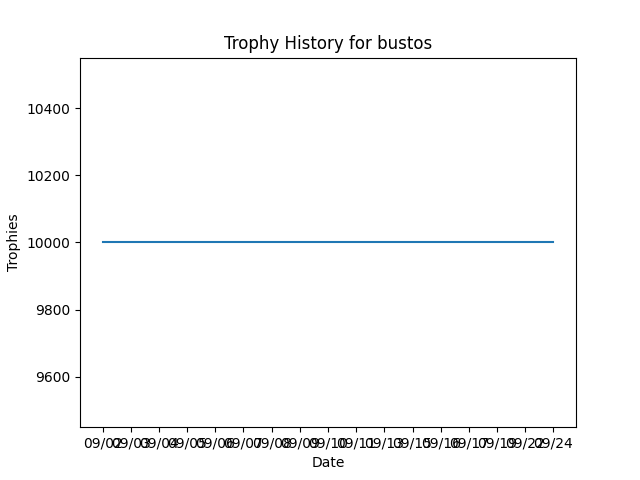
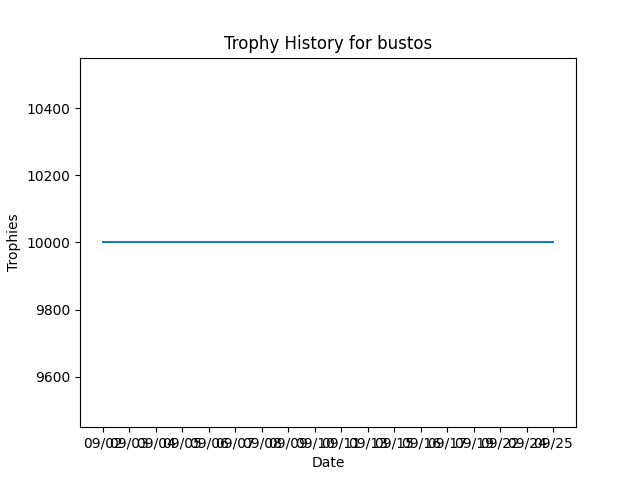
9/25/25 update

Changed region(s): [[0.1562, 0.9062, 0.9062, 0.9375]]

diff --git a/tempCodeRunnerFile.py b/tempCodeRunnerFile.py
@@ -1,0 +1,2 @@
+
+    Player("GQRCLJ2GU")
